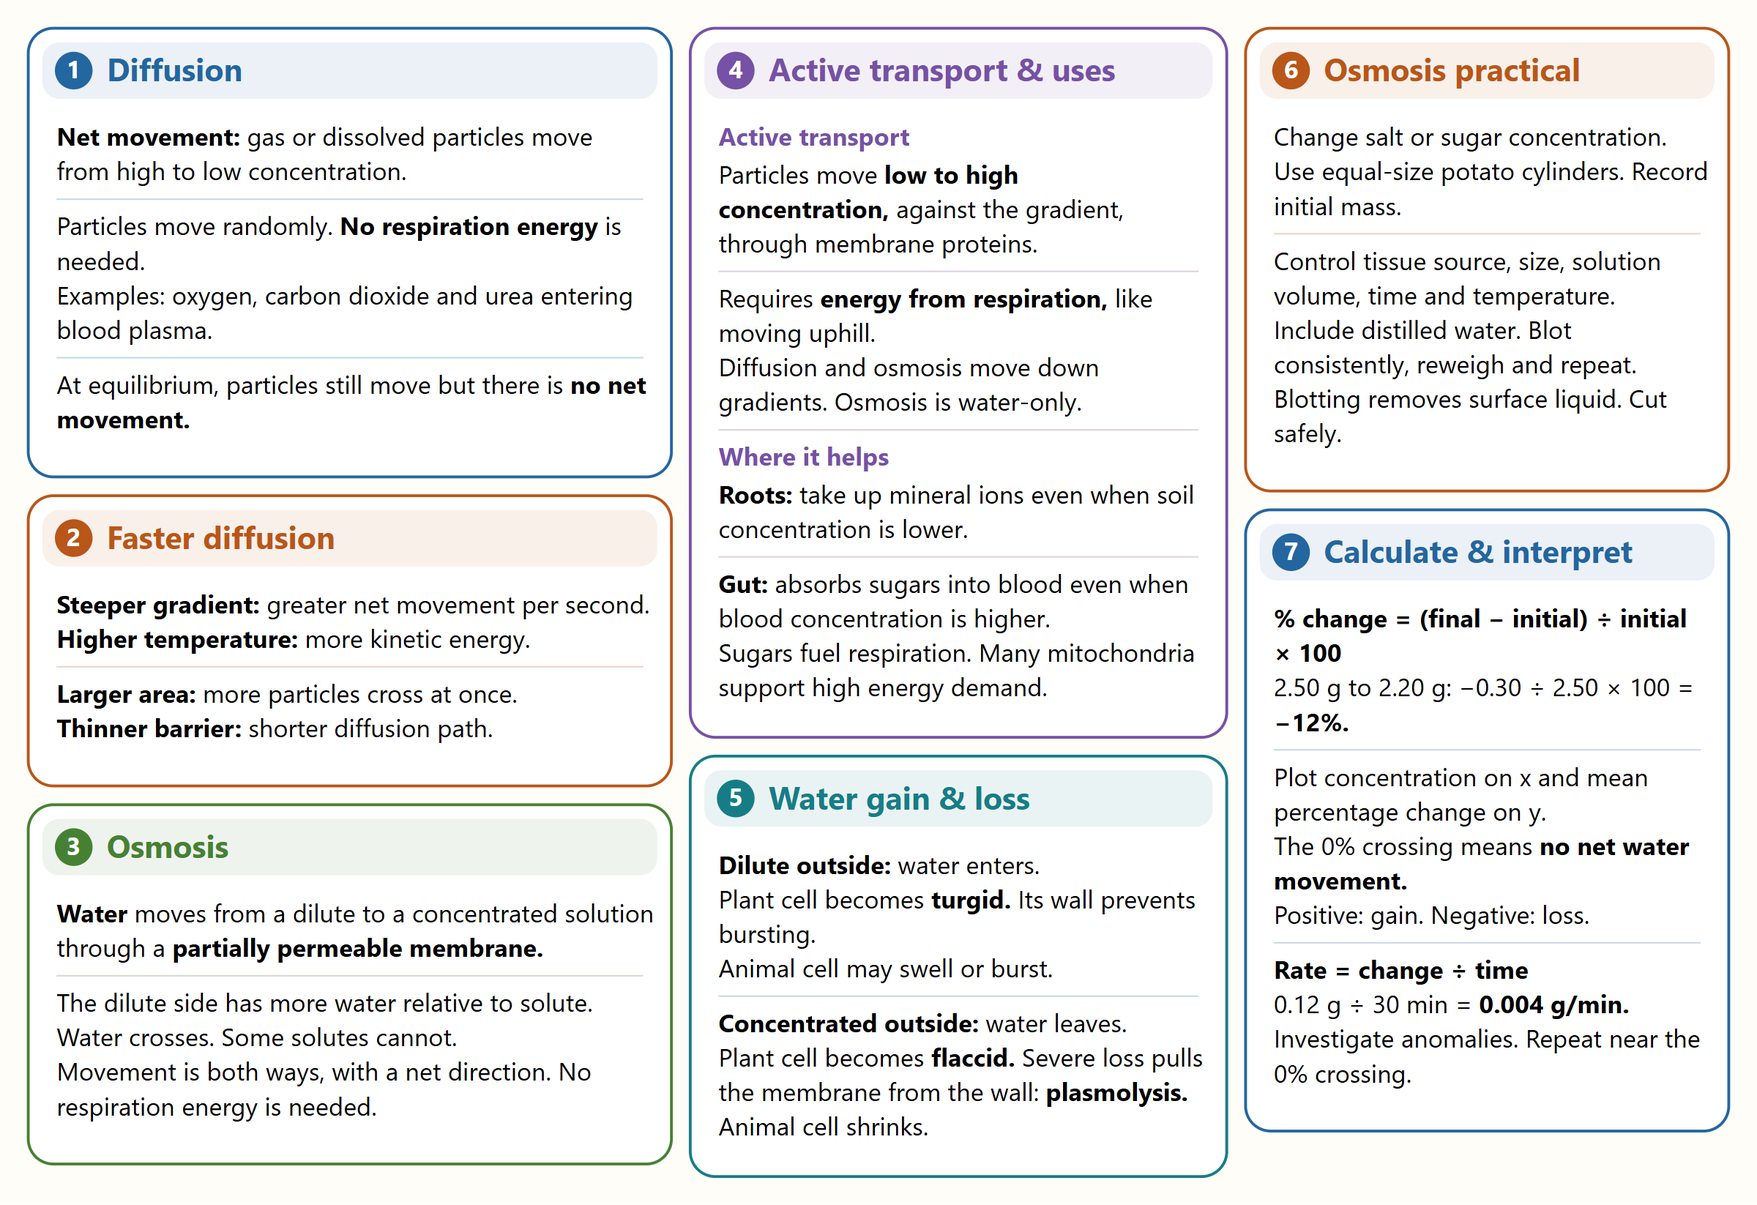
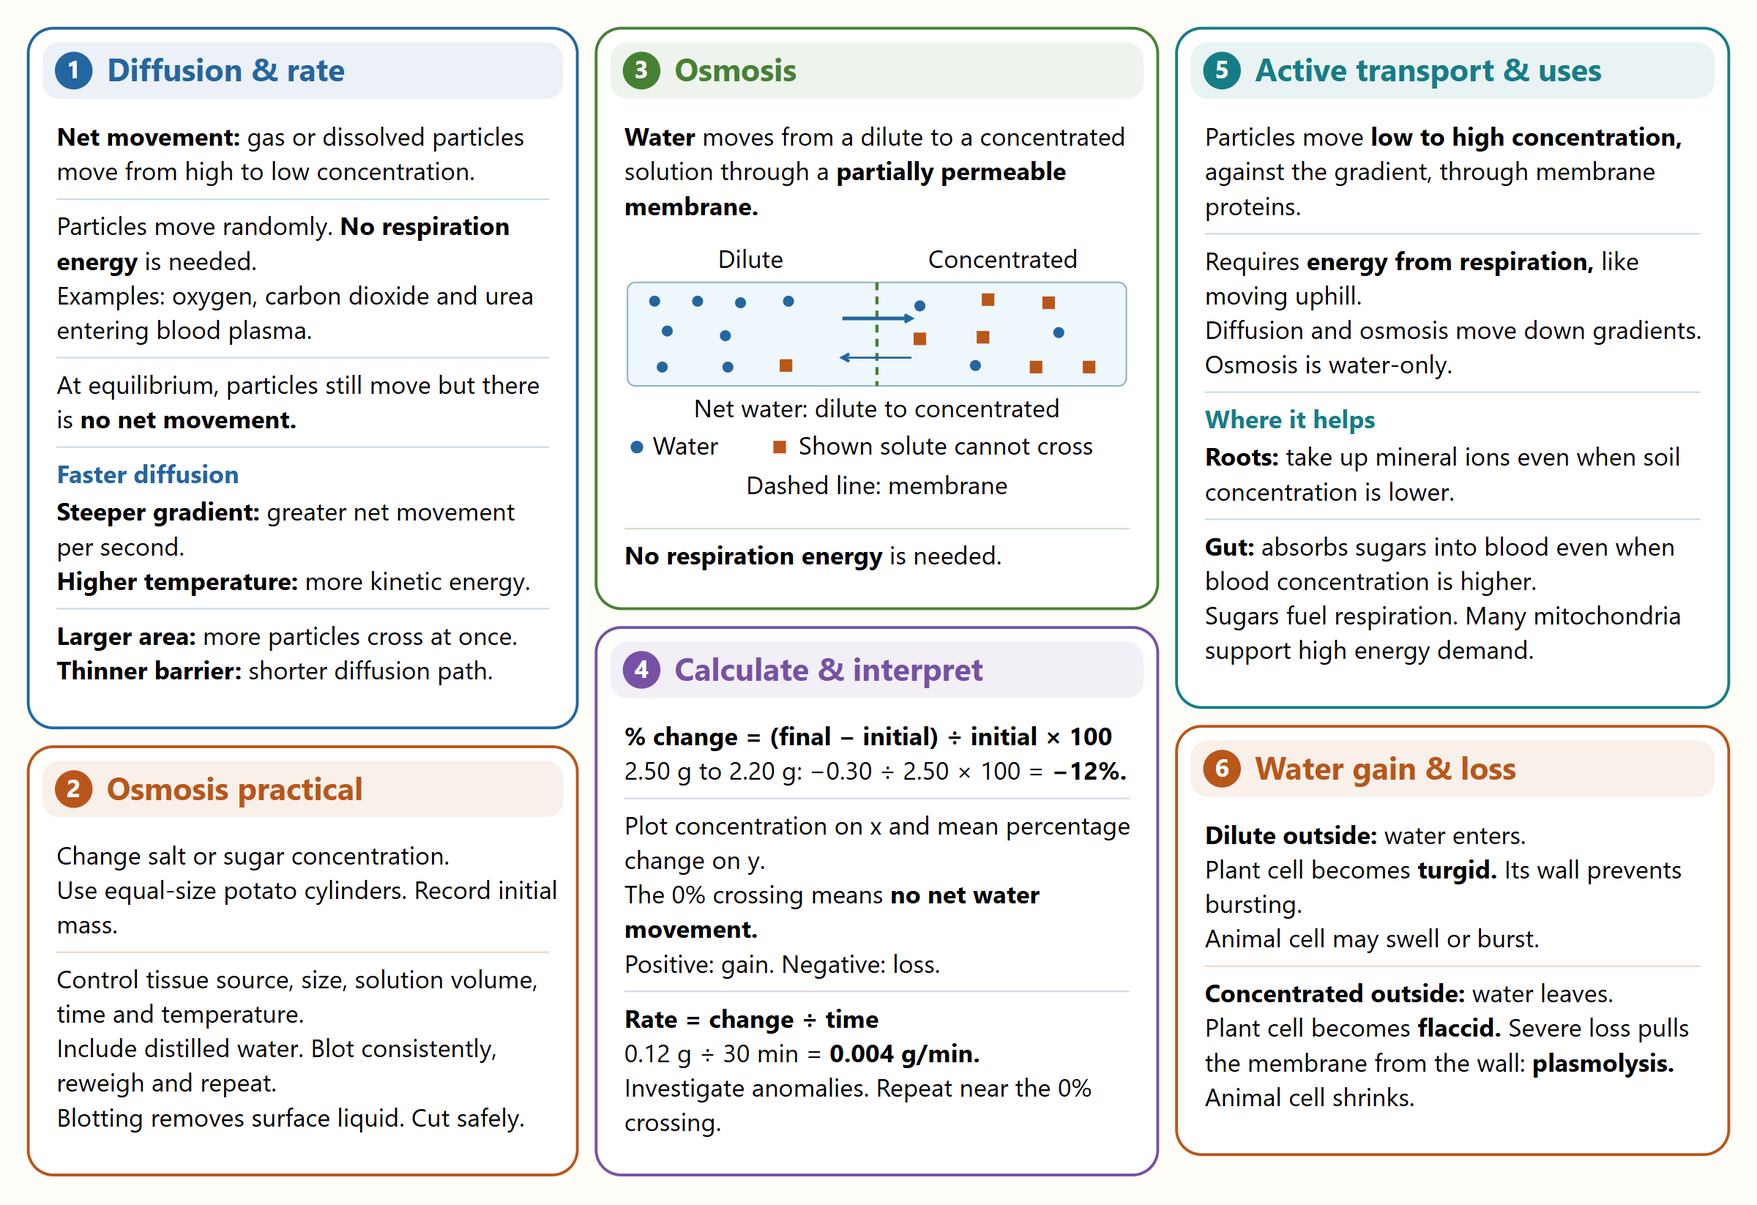
feat: restore useful Cell Biology mind map diagrams

diff --git a/scripts/biology_explanatory_figures.py b/scripts/biology_explanatory_figures.py
@@ -1,0 +1,179 @@
+"""Mechanism diagrams for readable Biology maps; draw at final label size.
+
+Every diagram has a specific learning purpose. No decorative branch icons.
+Coordinates adapt to panel width; labels remain 16 units (11.2 pt on A4).
+"""
+from html import escape
+import math
+
+BLACK='#000000'; BLUE='#2366a0'; GREEN='#468133'; ORANGE='#b95619'; PURPLE='#7651a5'; RED='#b74650'
+
+def label(x,y,value,anchor='start'):
+    return f'<text class="diagram-label" x="{x}" y="{y}" font-size="16" fill="{BLACK}" text-anchor="{anchor}">{escape(value)}</text>'
+
+def arrow(x1,y1,x2,y2,color=BLUE,thin=False):
+    a=math.atan2(y2-y1,x2-x1); n=5
+    return f'<path d="M{x1} {y1}L{x2} {y2}" stroke="{color}" stroke-width="{1.3 if thin else 2.3}" fill="none"/><path d="M{x2-n*math.cos(a-.5)} {y2-n*math.sin(a-.5)}L{x2} {y2}L{x2-n*math.cos(a+.5)} {y2-n*math.sin(a+.5)}" stroke="{color}" stroke-width="2" fill="none"/>'
+
+def leader(points):return f'<path d="{points}" stroke="#64747d" stroke-width="1.1" fill="none"/>'
+
+def box(x,y,w,h,value,c=BLUE):
+    return f'<rect x="{x}" y="{y}" width="{w}" height="{h}" rx="7" fill="{c}" fill-opacity=".06" stroke="{c}" stroke-width="1.5"/>'+label(x+w/2,y+h/2+5,value,'middle')
+
+def osmosis(w):
+    mid=w/2
+    s=label(w/4,16,'Dilute','middle')+label(w*3/4,16,'Concentrated','middle')
+    s+=f'<rect x="2" y="25" width="{w-4}" height="66" rx="5" fill="#eef7fc" stroke="#94b4c6"/><path d="M{mid} 25V91" stroke="{GREEN}" stroke-width="2" stroke-dasharray="5 4"/>'
+    # Equal compartments: concentration is a proportion, not a compartment-size effect.
+    for side,waters,solutes in [(0,[(.12,37),(.29,37),(.46,38),(.65,37),(.17,56),(.40,59),(.15,79),(.41,79)],[(.64,78)]),(1,[(.17,40),(.72,57),(.39,78)],[(.44,36),(.68,38),(.17,61),(.42,60),(.63,79),(.84,79)])]:
+        base=side*mid
+        for x,y in waters:s+=f'<circle cx="{base+x*mid}" cy="{y}" r="3.5" fill="{BLUE}"/>'
+        for x,y in solutes:s+=f'<rect x="{base+x*mid-4}" y="{y-4}" width="8" height="8" fill="{ORANGE}"/>'
+    s+=arrow(mid-22,48,mid+22,48)+arrow(mid+22,73,mid-22,73,thin=True)
+    s+=label(w/2,111,'Net water movement: dilute to concentrated','middle') if w>=330 else label(w/2,111,'Net water: dilute to concentrated','middle')
+    s+=f'<circle cx="8" cy="130" r="4" fill="{BLUE}"/>'+label(18,135,'Water')+f'<rect x="95" y="126" width="8" height="8" fill="{ORANGE}"/>'+label(111,135,'Shown solute cannot cross')
+    s+=label(w/2,160,'Dashed line: membrane','middle')
+    return s,170
+
+def cubes(w):
+    s=''
+    for x,a in [(w*.18,25),(w*.59,75)]:
+        y=96-a;dx=a*.27;dy=a*.18
+        s+=f'<path d="M{x} {y}l{dx} {-dy}h{a}l{-dx} {dy}Z" fill="#fff0d8" stroke="{ORANGE}"/><path d="M{x+a} {y}l{dx} {-dy}v{a}l{-dx} {dy}Z" fill="#efd1ad" stroke="{ORANGE}"/><rect x="{x}" y="{y}" width="{a}" height="{a}" fill="#fce8ce" stroke="{ORANGE}"/>'
+        s+=label(x+a/2,118,'1 cm' if a==25 else '3 cm','middle')
+        s+=label(x+a/2,140,'SA/V = 6' if a==25 else 'SA/V = 2','middle')
+    return s,148
+
+def fission(w):
+    s=''
+    centres=[w*.15,w*.5,w*.84]
+    def cell(x,y,rx,ry,copies=1):
+        out=f'<ellipse cx="{x}" cy="{y}" rx="{rx}" ry="{ry}" fill="#e8f4ed" stroke="{GREEN}" stroke-width="1.8"/>'
+        for dx in ([0] if copies==1 else [-14,14]):out+=f'<ellipse cx="{x+dx}" cy="{y}" rx="9" ry="12" fill="none" stroke="{PURPLE}" stroke-width="2"/>'
+        return out
+    s+=cell(centres[0],42,28,20)+cell(centres[1],42,35,20,2)
+    s+=cell(centres[2],23,24,15)+cell(centres[2],62,24,15)
+    s+=arrow(centres[0]+32,42,centres[1]-39,42)+arrow(centres[1]+39,42,centres[2]-30,42)
+    for x,value in zip(centres,['One cell','DNA copies','Two cells']):s+=label(x,100,value,'middle')
+    s+=label(w/2,126,'Purple: DNA, not a nucleus','middle')
+    return s,136
+
+def enzyme(w):
+    s='';step=w/3
+    for i in range(3):
+        x=step*(i+.5)
+        s+=f'<path d="M{x-34} 62H{x-12}L{x} 80L{x+12} 62H{x+34}V103H{x-34}Z" fill="#e5effb" stroke="{BLUE}" stroke-width="1.5"/>'
+        if i<2:
+            y=28 if i==0 else 62
+            s+=f'<path d="M{x-12} {y}H{x+12}L{x} {y+18}Z" fill="#f7d69e" stroke="{ORANGE}"/>'
+            if i==0:s+=arrow(x,48,x,58,ORANGE)
+        else:
+            s+=f'<path d="M{x-23} 28H{x-11}V46Z M{x+11} 28H{x+23}L{x+11} 46Z" fill="#f7d69e" stroke="{ORANGE}"/>'
+            s+=arrow(x,59,x,48,ORANGE)
+        s+=label(x,16,['Substrate','Bound','Products'][i],'middle')
+        if i<2:s+=arrow(x+38,86,x+step-38,86)
+    s+=label(w/2,127,'Active site fits; enzyme is reused','middle')
+    return s,138
+
+def circulation(w):
+    # Two closed linked circuits: names and arrows show actual blood flow.
+    left=65;right=w-65;mid=w/2;bw=122
+    s=box(mid-43,0,86,27,'Body',RED)+box(mid-44,209,88,27,'Lungs',BLUE)
+    for x,y,value,c in [(left,67,'Right atrium',BLUE),(left,117,'Right ventricle',BLUE),(right,67,'Left ventricle',RED),(right,117,'Left atrium',RED)]:s+=box(x-bw/2,y,bw,27,value,c)
+    s+=arrow(mid-45,13,left,13,BLUE)+arrow(left,13,left,61,BLUE)+label(4,43,'Vena cava')
+    s+=arrow(left,96,left,113,BLUE)+arrow(left,149,left,223,BLUE)+arrow(left,223,mid-49,223,BLUE)
+    s+=label(4,171,'Pulmonary')+label(4,191,'artery')
+    s+=arrow(mid+49,223,right,223,RED)+arrow(right,223,right,150,RED)
+    s+=label(w-4,171,'Pulmonary','end')+label(w-4,191,'vein','end')
+    s+=arrow(right,115,right,99,RED)+arrow(right,62,right,13,RED)+arrow(right,13,mid+45,13,RED)+label(w-4,43,'Aorta','end')
+    s+=f'<path d="M{left+46} 35H{right-46}" stroke="#aab9c2" stroke-width="1" stroke-dasharray="3 3"/>' if w>370 else ''
+    s+=label(0,263,'Blue: lower oxygen')+label(w,263,'Red: higher oxygen','end')
+    return s,274
+
+def leaf(w):
+    dw=116;tx=145;s=''
+    s+=f'<rect x="2" y="12" width="{dw}" height="5" fill="#67994c"/><rect x="2" y="17" width="{dw}" height="20" fill="#eaf2d7" stroke="{GREEN}"/>'
+    for x in [6,30,54,78,102]:
+        s+=f'<rect x="{x}" y="40" width="18" height="43" rx="5" fill="#c2df8e" stroke="{GREEN}"/>'
+        for y in [48,60,73]:s+=f'<ellipse cx="{x+9}" cy="{y}" rx="3" ry="4" fill="{GREEN}"/>'
+    for x,y in [(14,101),(49,106),(20,130),(50,141)]:s+=f'<ellipse cx="{x}" cy="{y}" rx="13" ry="8" fill="#ddeac2" stroke="{GREEN}"/>'
+    s+=f'<ellipse cx="90" cy="116" rx="22" ry="29" fill="#f5f6e3" stroke="{GREEN}"/><circle cx="90" cy="102" r="8" fill="#c5dff6" stroke="{BLUE}"/><circle cx="90" cy="130" r="8" fill="#f6d9a7" stroke="{ORANGE}"/>'
+    s+=f'<path d="M2 156H43V170H2Z M76 156H118V170H76Z" fill="#eaf2d7" stroke="{GREEN}"/><ellipse cx="45" cy="163" rx="6" ry="11" fill="#badf90" stroke="{GREEN}"/><ellipse cx="73" cy="163" rx="6" ry="11" fill="#badf90" stroke="{GREEN}"/>'
+    for y,value,px,py in [(17,'Cuticle',116,14),(41,'Epidermis',116,27),(65,'Palisade cells',116,61),(89,'Spongy cells',49,106),(113,'Xylem',98,102),(137,'Phloem',98,130),(161,'Guard cells',77,163)]:
+        s+=leader(f'M{px} {py}L{tx-10} {y-5}H{tx-3}')+label(tx,y,value)
+    s+=leader('M59 166V180')+label(59,198,'Stoma','middle')+label(tx,193,'Air spaces')+leader(f'M40 120L{tx-10} 187H{tx-3}')
+    return s,207
+
+def memory(w):
+    s=label(0,16,'Antibody level');plot=(w-32)/2
+    for i in range(2):
+        x=8+i*(plot+16);end=x+plot
+        s+=arrow(x,112,x,30,BLACK)+arrow(x,112,end,112,BLACK)
+        curve=f'M{x+2} 110C{x+45} 110 {x+42} 80 {x+65} 80S{end-25} 105 {end-5} 108' if i==0 else f'M{x+2} 110C{x+18} 110 {x+18} 41 {x+45} 41S{end-26} 55 {end-5} 64'
+        s+=f'<path d="{curve}" stroke="{BLUE if i==0 else GREEN}" stroke-width="2.5" fill="none"/>'
+        s+=label(x+plot/2,136,'First exposure' if i==0 else 'Later exposure','middle')
+    s+=label(w/2,160,'Time after exposure (same scale)','middle')
+    return s,172
+
+def hybridoma(w):
+    x1=w*.24;x2=w*.76;mid=w/2
+    s=label(x1,16,'Lymphocyte','middle')+label(x2,16,'Tumour cell','middle')
+    for x,c in [(x1,PURPLE),(x2,ORANGE)]:s+=f'<circle cx="{x}" cy="45" r="18" fill="{c}" fill-opacity=".12" stroke="{c}" stroke-width="1.7"/><circle cx="{x-2}" cy="44" r="7" fill="{c}" fill-opacity=".5"/>'
+    s+=label(x1,82,'Makes antibody','middle')+label(x2,82,'Divides','middle')
+    s+=arrow(x1,93,mid-12,113,PURPLE)+arrow(x2,93,mid+12,113,ORANGE)
+    s+=f'<ellipse cx="{mid}" cy="136" rx="25" ry="18" fill="#ecedf8" stroke="{BLUE}" stroke-width="1.7"/><circle cx="{mid}" cy="136" r="9" fill="#aa9aca"/>'
+    s+=label(mid,178,'Hybridoma: divides + makes antibody','middle')
+    return s,188
+
+def limiting(w):
+    s=label(0,16,'Photosynthesis rate')+arrow(15,135,15,29,BLACK)+arrow(15,135,w-3,135,BLACK)
+    end=w-15
+    s+=f'<path d="M19 132C55 115 70 93 120 93H{end}" stroke="{BLUE}" stroke-width="2.5" fill="none"/><path d="M19 132C55 115 80 54 160 54H{end}" stroke="{GREEN}" stroke-width="2.5" fill="none"/>'
+    s+=label(end,46,'Higher CO₂','end')+label(end,85,'Lower CO₂','end')
+    s+=label(w/2,160,'Light intensity','middle')+label(w/2,184,'Same temperature and chlorophyll','middle')
+    return s,194
+
+def pondweed(w):
+    s=f'<rect x="6" y="87" width="30" height="48" rx="8" fill="#ffe5a7" stroke="#ac771f"/><path d="M36 89L107 71M36 110H107M36 131L107 166" stroke="#dba63a" fill="none"/>'+label(21,161,'Lamp','middle')
+    s+=f'<path d="M105 54V179H214V54" stroke="#829caf" stroke-width="2" fill="none"/><path d="M106 95H213V177H106Z" fill="#e4f2fa"/>'
+    # Inverted, initially water-filled collector; oxygen accumulates at its closed top.
+    s+='<path d="M144 127V64Q156 59 168 64V127" stroke="#6c8d9e" stroke-width="1.7" fill="#eff8fb"/><path d="M145 64Q156 60 167 64V86H145Z" fill="#f5dd99"/>'
+    s+='<path d="M132 150L148 129V122M164 122V129L180 150Z" fill="none" stroke="#63828d" stroke-width="1.6"/>'
+    s+=f'<path d="M156 171V151M156 158L145 156M156 164L167 158" stroke="{GREEN}" stroke-width="3" fill="none"/>'
+    s+='<circle cx="156" cy="119" r="2.5" fill="#9bc0d7"/><circle cx="156" cy="108" r="3" fill="#9bc0d7"/><path d="M195 92V158" stroke="#be4b55" stroke-width="3"/><circle cx="195" cy="160" r="5" fill="#be4b55"/>'
+    s+=leader('M168 75H225')+label(230,80,'Oxygen')+leader('M195 96L225 113')+label(230,118,'Thermometer')
+    s+=leader('M167 166L225 155')+label(230,160,'Pondweed')
+    s+=label(w/2,205,'Sodium hydrogencarbonate solution','middle')
+    return s,215
+
+DRAWINGS={'osmosis':osmosis,'cubes':cubes,'fission':fission,'enzyme':enzyme,'circulation':circulation,'leaf':leaf,'memory':memory,'hybridoma':hybridoma,'limiting':limiting,'pondweed':pondweed}
+MIN_WIDTH={'osmosis':322,'cubes':285,'fission':266,'enzyme':310,'circulation':310,'leaf':310,'memory':316,'hybridoma':330,'limiting':310,'pondweed':382}
+PURPOSES={
+'osmosis':'Equal compartments distinguish water from solute; bidirectional arrows show movement with a larger dilute-to-concentrated net movement.',
+'cubes':'A 3 cm cube has three times the drawn side of a 1 cm cube, illustrating the falling surface area to volume ratio.',
+'fission':'Bacterial DNA is copied before the cell divides into two; no nucleus or mitotic chromosomes are shown.',
+'enzyme':'The substrate fits the active site, is split and leaves as products; the enzyme remains unchanged.',
+'circulation':'The four heart chambers, named vessels, body and lungs form two linked circuits with actual flow directions.',
+'leaf':'A leaf cross-section locates the tissues, air spaces, vascular bundle and guard cells around a stoma.',
+'memory':'Matched schematic axes show the shorter delay and higher antibody response on later exposure.',
+'hybridoma':'Fusion combines antibody production from a lymphocyte with repeated division from a tumour cell.',
+'limiting':'Two schematic curves show the effect of increased carbon dioxide at fixed temperature and chlorophyll.',
+'pondweed':'The lamp, submerged plant and funnel, inverted water-filled gas collector and thermometer clarify oxygen collection.'}
+
+def drawing(kind,width):
+    if width<MIN_WIDTH[kind]:raise ValueError('Diagram needs a wider panel: '+kind)
+    body,height=DRAWINGS[kind](width)
+    return '<g class="explanatory-diagram" data-diagram="'+kind+'"><title>'+escape(PURPOSES[kind])+'</title>'+body+'</g>',height
+
+VISUALS={
+'03-transport-processes':{2:('osmosis',0)},
+'04-exchange-surfaces':{1:('cubes',0)},
+'06-culturing-microorganisms':{0:('fission',0)},
+'01-digestion-and-enzymes':{2:('enzyme',0)},
+'02-circulation-and-health':{0:('circulation',0)},
+'03-plant-tissues-and-transport':{0:('leaf',0)},
+'02-defence-and-vaccination':{4:('memory',0)},
+'03-medicines-and-antibodies':{4:('hybridoma',0)},
+'01-photosynthesis-and-limiting-factors':{3:('limiting',0)},
+'02-photosynthesis-practical':{2:('pondweed',0)},
+}

diff --git a/scripts/biology_readable_mindmaps.py b/scripts/biology_readable_mindmaps.py
@@ -8,6 +8,8 @@ from html import escape
 import re, json, math
 from itertools import product
 from functools import lru_cache
+from copy import deepcopy
+from biology_explanatory_figures import drawing, VISUALS, PURPOSES
 from PIL import ImageFont
 
 W, H = 1120, 768
@@ -104,13 +106,18 @@ class LayoutPanel:
                 if self.elements:
                     last=y-LEADING
                     self.elements.append(('divider',last+12,None)); y=last+35
-                heading=g.get('heading') or (source['title'] if len(self.indices)>1 and j==0 else None)
+                heading=g.get('heading') or (source['title'] if len(self.indices)>1 and j==0 and (n>0 or not self.title.lower().startswith(source['title'].lower())) else None)
                 if heading:
                     for row in wrap(heading,width-PAD*2,SUBHEADING,True):
                         self.elements.append(('subheading',y,row_text(row))); y+=24
                 for value in g['lines']:
                     for row in wrap(value,width-PAD*2):
                         self.elements.append(('text',y,row_text(row))); y+=LEADING
+                visual=source.get('visual')
+                if visual and visual['after']==j:
+                    artwork,height=drawing(visual['kind'],width-PAD*2)
+                    top=y-LEADING+18
+                    self.elements.append(('diagram',top,artwork)); y=top+height+LEADING
         self.height=y-LEADING+5+PAD
 
     def svg(self,x,y,color,number):
@@ -119,6 +126,8 @@ class LayoutPanel:
         out.append('</g><g class="section-body">')
         for kind,yy,value in self.elements:
             if kind=='divider':out.append(f'<path class="section-divider" d="M{PAD} {yy}H{self.width-PAD}" stroke="{color}" stroke-opacity=".25" stroke-width="1" fill="none"/>')
+            elif kind=='diagram':
+                out.append(f'<g transform="translate({PAD} {yy})">'+value+'</g>')
             elif kind=='picture':
                 from cell_biology_illustrated_overview import division
                 out.append(f'<g class="concept-illustration" transform="translate(0 {yy-73})">'+division()+'</g>')
@@ -128,6 +137,7 @@ class LayoutPanel:
         return ''.join(out)
 
 def build_map(title,slug,sources,columns=None,merged_titles=None,picture_index=None):
+    sources=with_visuals(sources,slug)
     columns=columns or [[0,1],[2,3],[4,5]]
     merged_titles=merged_titles or {}
     listed=[i for col in columns for item in col for i in (item if isinstance(item,tuple) else [item])]
@@ -176,7 +186,20 @@ def build_map(title,slug,sources,columns=None,merged_titles=None,picture_index=N
             y+=card.height+GUTTER
         x+=width+GUTTER
     out.append('</svg>')
-    return ''.join(out), {'widths':widths,'column_heights':heights,'panels':layout,'body_pt':round(BODY/W*277/25.4*72,2)}
+    return ''.join(out), {'widths':widths,'column_heights':heights,'panels':layout,'body_pt':round(BODY/W*277/25.4*72,2),'diagrams':[{'source_panel':i,'kind':p['visual']['kind'],'purpose':PURPOSES[p['visual']['kind']]} for i,p in enumerate(sources) if p.get('visual')]}
+
+def with_visuals(sources,slug):
+    sources=deepcopy(sources)
+    for index,(kind,after) in VISUALS.get(slug,{}).items():
+        sources[index]['visual']={'kind':kind,'after':after}
+    if slug=='03-transport-processes':
+        # Counts, particle legend and arrows now carry these relationships visually.
+        sources[2]['groups'][1]['lines']=['**No respiration energy** is needed.']
+    if slug=='02-circulation-and-health':
+        # Named chambers, vessels and both full flow routes are carried by the diagram.
+        # The original complete wording remains in the Markdown/text counterpart.
+        sources[0]['groups']=sources[0]['groups'][2:]
+    return sources
 
 def build_cell_map(item):
     from biology_readable_cell_content import CONTENT, COLUMNS, MERGED

diff --git a/scripts/build_biology_topic_maps.py b/scripts/build_biology_topic_maps.py
@@ -8,7 +8,8 @@ ROOT=Path(__file__).resolve().parents[1]
 def build(topic):
  folder=ROOT/'Biology - AQA'/topic/'Mind Maps';folder.mkdir(exist_ok=True);files=[];records=[]
  for item in MAPS[topic]:
-  artwork,record=build_map(item['title'],item['slug'],course_panels(topic,item))
+  columns={'02-photosynthesis-practical':[[0,2],[1,3],[4,5]]}.get(item['slug'])
+  artwork,record=build_map(item['title'],item['slug'],course_panels(topic,item),columns=columns)
   records.append(dict(slug=item['slug'],**record))
   path=folder/(item['slug']+'.svg');path.write_text(artwork,encoding='utf-8');files.append(str(path))
   path.with_suffix('.md').write_text('# '+item['title']+'\n\n'+'\n\n'.join('## '+p['title']+'\n\n'+'\n'.join('- '+x for x in p['lines']) for p in item['panels'])+'\n',encoding='utf-8')

diff --git a/scripts/biology_readable_cell_content.py b/scripts/biology_readable_cell_content.py
@@ -280,13 +280,13 @@ COLUMNS={
 '00-cell-biology-overview': [[(0,1),3],[(5,2),4],[6,7]],
 '01-cells': [[0,1],[2,3,4],[5,6,7]],
 '02-cell-processes': [[0,1,5],[2,3],[4,6,7]],
-'03-transport-processes': [[0,1,2],[(4,5),3],[6,7]],
+'03-transport-processes': [[(0,1),6],[2,7],[(4,5),3]],
 '04-exchange-surfaces': [[0,1],[2,3,4],[5,6,7]],
 '05-microscopy': [[0,1,5],[2,3,4],[6,7]],
 '06-culturing-microorganisms': [[0,7],[(1,2),3],[(4,5),6]],
 }
 MERGED={
 '00-cell-biology-overview': {(0,1):'Cells & specialisation',(5,2):'Division & stem cells'},
-'03-transport-processes': {(4,5):'Active transport & uses'},
+'03-transport-processes': {(0,1):'Diffusion & rate',(4,5):'Active transport & uses'},
 '06-culturing-microorganisms': {(1,2):'Uncontaminated cultures',(4,5):'Compare antimicrobial discs'},
 }

diff --git a/RESOURCE_GUIDELINES.md b/RESOURCE_GUIDELINES.md
@@ -158,3 +158,5 @@ These checks apply to future resources and revisions of existing resources.
 - Use light, inset divider lines between natural content groups within mind-map panels, matching the panel colour. Keep clear space above and below each line; do not separate every fact or let a line touch text or diagrams.
 
 - Biology mind maps now use the readable panel style from the approved Cell biology overview: no central hub, measured widths/heights, black body text with bold colon labels, consistent coloured headings, light inset dividers and compact outer gutters. Apply it to existing Biology maps while preserving their complete text counterparts. Use scripts/biology_readable_mindmaps.py through the maintained subject generators. Keep Previous and Next controls inside every mind-map viewer, with a position count and disabled controls at the ends.
+
+- Use diagrams selectively in every Biology mind map: retain or restore a labelled structure, changing mechanism, comparison graph or practical setup when it explains something more clearly than the text alone. The previous instruction to retain only mitosis applied to the combined Cell Biology overview; it does not mean removing useful diagrams from every detailed map. Avoid filler icons and decorative pictures. Preserve readable A4 text, clear labels and written explanations; allocate diagram space by rearranging panels. Record each diagram's learning purpose in internal review metadata.

diff --git a/AGENTS.md b/AGENTS.md
@@ -85,3 +85,5 @@ This file applies to all future work in this project.
 - Use light, inset divider lines between natural content groups within mind-map panels, matching the panel colour. Keep clear space above and below each line; do not separate every fact or let a line touch text or diagrams.
 
 - Biology mind maps now use the readable panel style from the approved Cell biology overview: no central hub, measured widths/heights, black body text with bold colon labels, consistent coloured headings, light inset dividers and compact outer gutters. Apply it to existing Biology maps while preserving their complete text counterparts. Use scripts/biology_readable_mindmaps.py through the maintained subject generators. Keep Previous and Next controls inside every mind-map viewer, with a position count and disabled controls at the ends.
+
+- Use diagrams selectively in every Biology mind map: retain or restore a labelled structure, changing mechanism, comparison graph or practical setup when it explains something more clearly than the text alone. The previous instruction to retain only mitosis applied to the combined Cell Biology overview; it does not mean removing useful diagrams from every detailed map. Avoid filler icons and decorative pictures. Preserve readable A4 text, clear labels and written explanations; allocate diagram space by rearranging panels. Record each diagram's learning purpose in internal review metadata.
